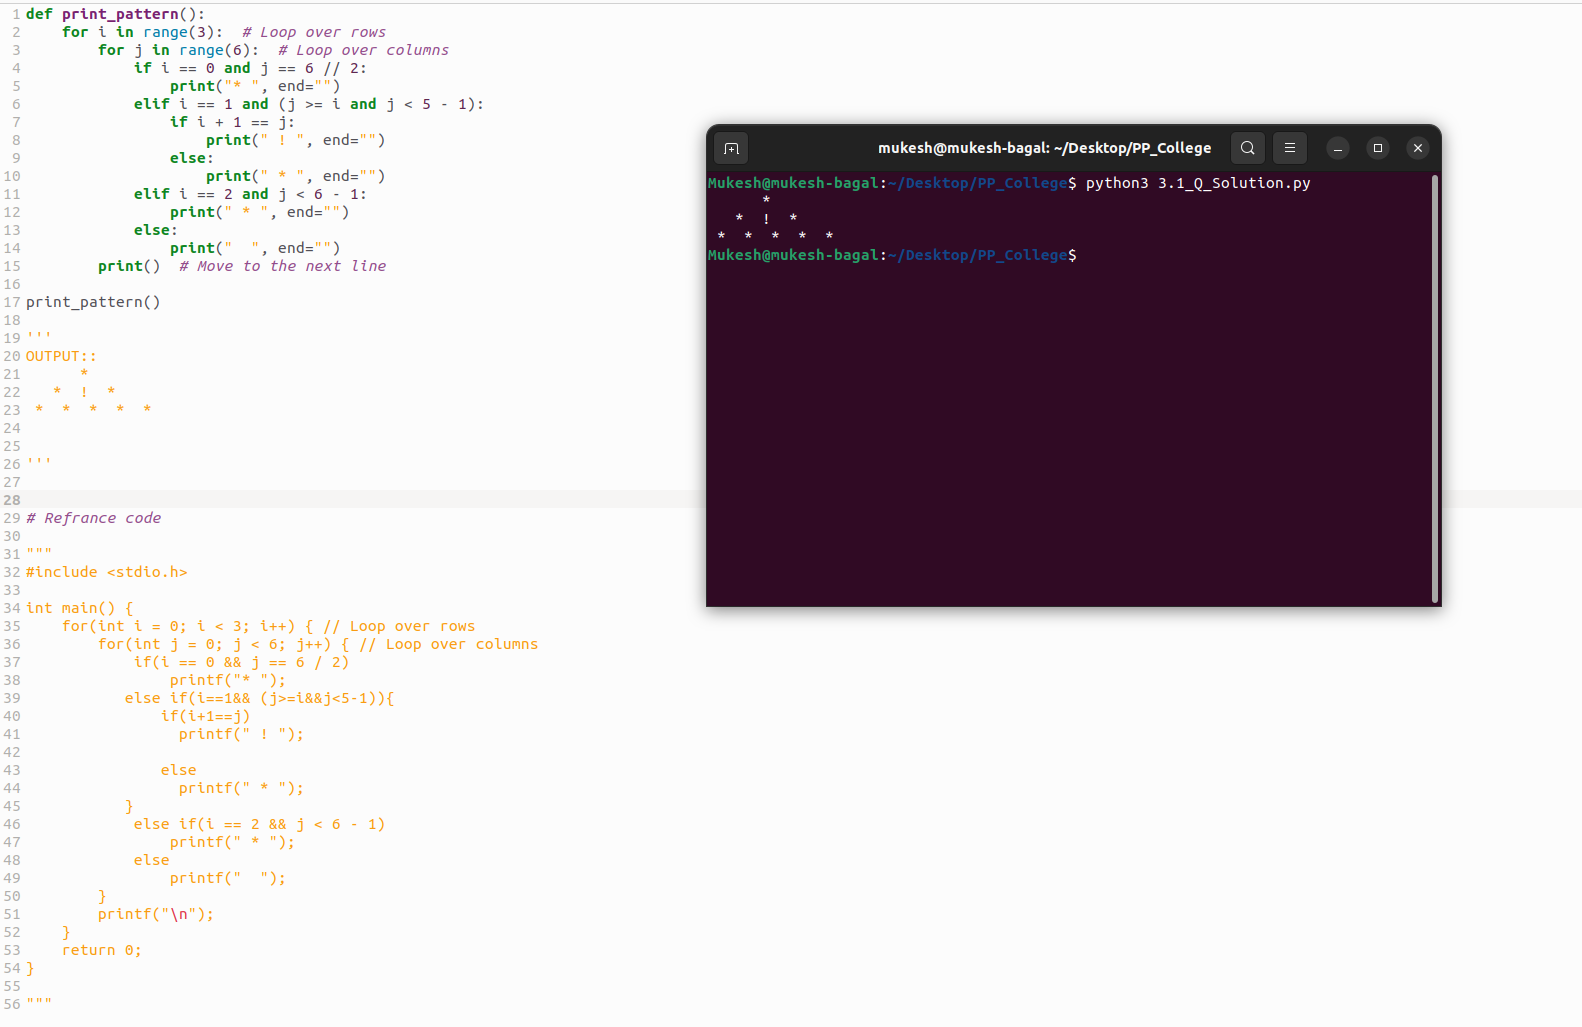
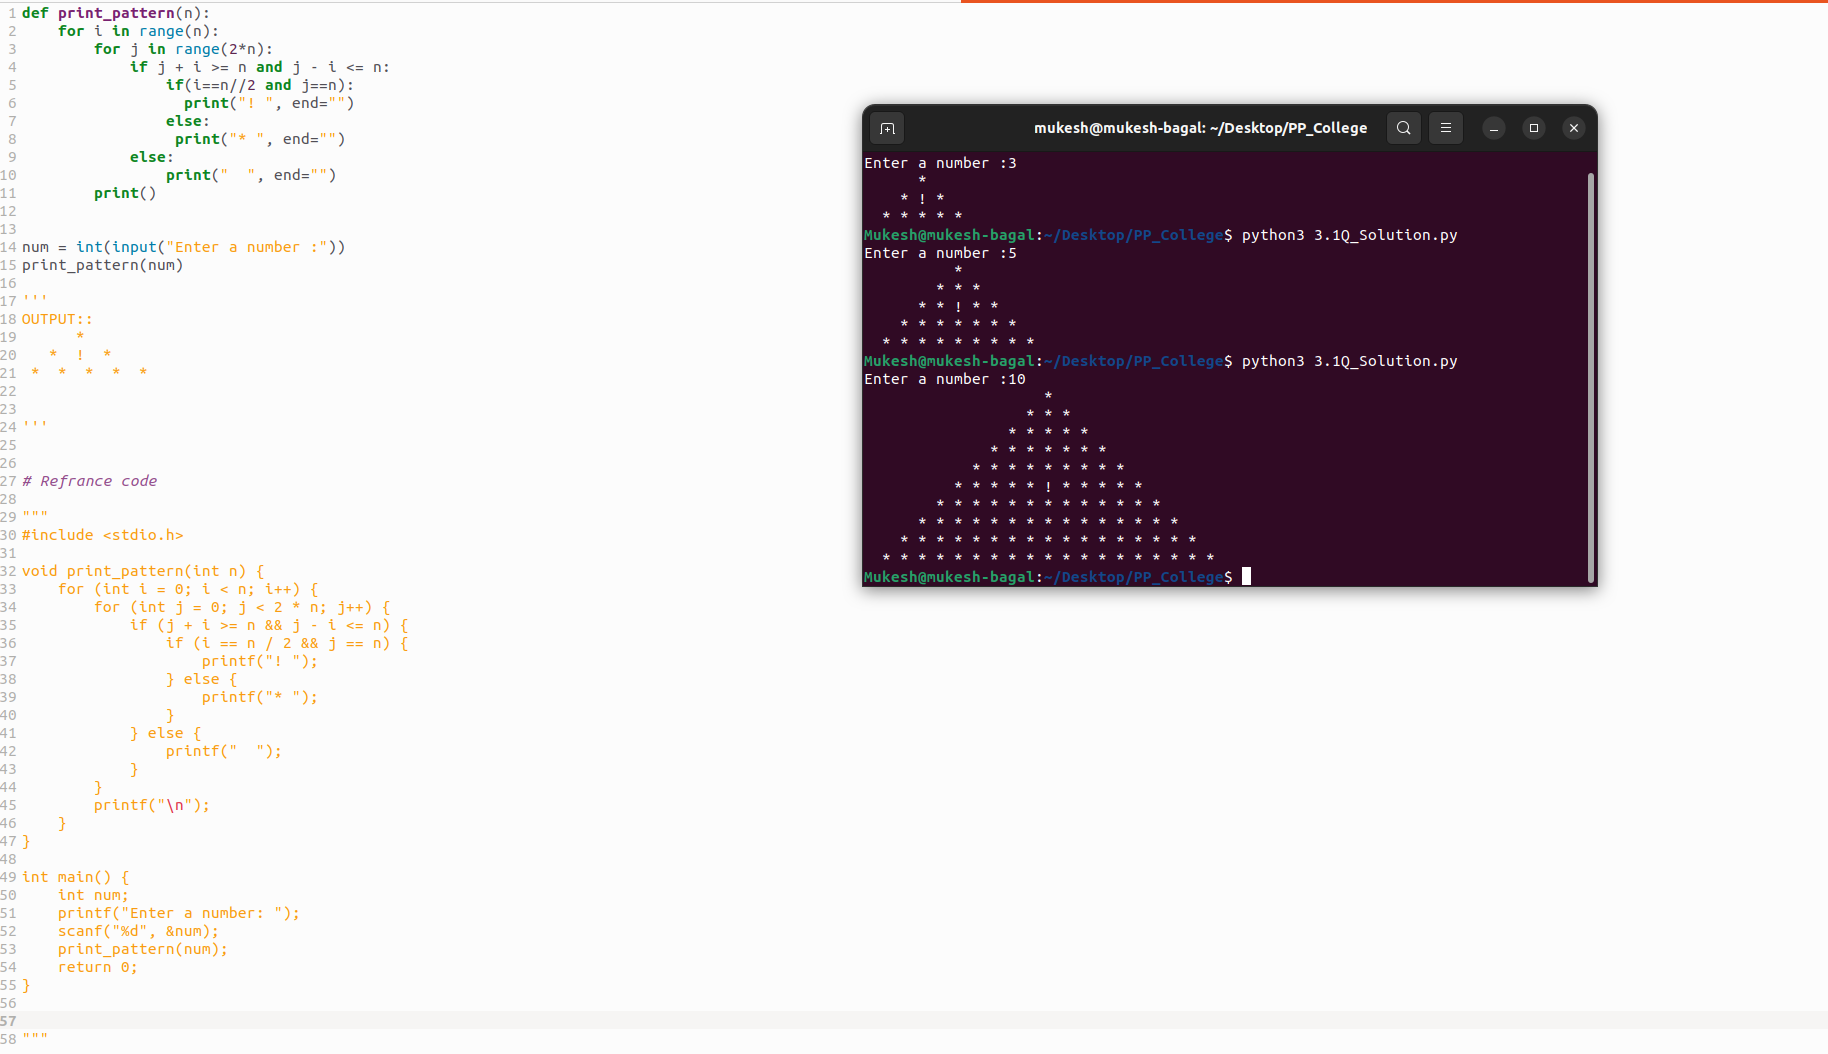
Practical No 3 Pattern Printing

diff --git a/3.2Q_Solution.py b/3.2Q_Solution.py
@@ -1,38 +1,44 @@
-def print_pattern():
-    for i in range(6):  # Loop over rows
-        for j in range(7):  # Loop over columns
-            if i == 0 and j == 7 // 2:
-                print("  * ", end="")
-            elif i == 1 and j % 2 == 0 and (j > 0 and j < 7 - 1):
-                print("  * ", end="")
-            elif i == 2 and j % 2 == 1:
-                if i + 1 == j:
-                    print(" 2 ", end="")
-                else:
-                    print("  * ", end="")
-            elif i == 3 and j % 2 == 1 and (j > 1 and j < 7 - 1):
-                print(" * ", end="")
-            elif (i > 3 and i < 6) and j < 7:
-                print("  * ", end="")
+def print_pattern(n):
+    if(n<3):
+        print("Plese Enter a Greater than ",n," Input !!")
+    for i in range(2*n-2):
+        for j in range(2*n): 
+            if (j + i == n and i < n) or \
+               (j - i == n) or \
+               (i - j == n - 2 and (i > n - 1 and i <= 2*n - 3)) or \
+               (i + j == 3*n - 2 and (i > n - 1 and i <= 2*n - 3)):
+                print("* ", end="") 
+            elif i == n - 1 and j == n:
+                print(n, " ", end="") 
             else:
-                print("   ", end="")
-        print()  # Move to the next line
+                print("   ", end="") 
+        print()
 
-print_pattern()
+    
+    for i in range(n):  
+        for j in range(2*n - 1):  
+            print(" * ", end="") 
+        print() 
+
+num = int(input("Enter a number :"))        
+print_pattern(num)  
 
 '''
 OUTPUT::
 
-           *          
-        *      *       
-     *      2      *    
-          *     *    
- *   *   *   *   *   *   *  
- *   *   *   *   *   *   *    
+Enter a number :3
+
+          *         
+     *        *     
+ *        3        * 
+     *        *             
+ *  *  *  *  *  *  *  *  * 
+ *  *  *  *  *  *  *  *  * 
+ *  *  *  *  *  *  *  *  * 
+
  
  
 '''
-
 
 
 # Refrance code
@@ -40,29 +46,47 @@ OUTPUT::
 """
 #include <stdio.h>
 
-int main() {
-    for(int i = 0; i < 6; i++) { // Loop over rows
-        for(int j = 0; j < 7; j++) { // Loop over columns
-            if(i==0 &&j==7/2)
-                printf("  * ");
-            else if(i==1 && j%2==0 && (j>0 && j<7-1)) 
-                printf("  * ");
-            else if(i==2 && j%2==1 ){
-                if(i+1==j)            
-                  printf("  2 ");
-                else
-                  printf("  * ");
-            }
-            else if(i==3 && j%2==1 && (j>1 && j<7-1))
-              printf(" * ");
-            else if((i>3 &&i<6) && j<7)
-                printf(" *  ");
-            else 
+void print_pattern(int n) {
+    if (n < 3) {
+        printf("Please Enter a Number Greater than %d\n", n);
+        return;
+    }
+
+    for (int i = 0; i < 2*n - 2; i++) {
+        for (int j = 0; j < 2*n; j++) {
+            if ((j + i == n && i < n) || 
+                (j - i == n) || 
+                (i - j == n - 2 && (i > n - 1 && i <= 2*n - 3)) || 
+                (i + j == 3*n - 2 && (i > n - 1 && i <= 2*n - 3))) {
+                printf("* ");
+            } else if (i == n - 1 && j == n) {
+                printf("%d ", n);
+            } else {
                 printf("   ");
+            }
         }
         printf("\n");
     }
+
+    for (int i = 0; i < n; i++) {
+        for (int j = 0; j < 2*n - 1; j++) {
+            printf(" * ");
+        }
+        printf("\n");
+    }
+}
+
+int main() {
+    int num;
+
+    printf("Enter a number: ");
+    scanf("%d", &num);
+
+    print_pattern(num);
+
     return 0;
 }
+
+
 
 """

diff --git a/3.1Q_Solution.py b/3.1Q_Solution.py
@@ -1,20 +1,18 @@
-def print_pattern():
-    for i in range(3):  # Loop over rows
-        for j in range(6):  # Loop over columns
-            if i == 0 and j == 6 // 2:
-                print("* ", end="")
-            elif i == 1 and (j >= i and j < 5 - 1):
-                if i + 1 == j:
-                    print(" ! ", end="")
+def print_pattern(n):
+    for i in range(n):
+        for j in range(2*n): 
+            if j + i >= n and j - i <= n:
+                if(i==n//2 and j==n):
+                  print("! ", end="") 
                 else:
-                    print(" * ", end="")
-            elif i == 2 and j < 6 - 1:
-                print(" * ", end="")
+                 print("* ", end="") 
             else:
-                print("  ", end="")
-        print()  # Move to the next line
+                print("  ", end="") 
+        print()
 
-print_pattern()
+
+num = int(input("Enter a number :"))        
+print_pattern(num)
 
 '''
 OUTPUT::
@@ -31,26 +29,30 @@ OUTPUT::
 """
 #include <stdio.h>
 
-int main() {
-    for(int i = 0; i < 3; i++) { // Loop over rows
-        for(int j = 0; j < 6; j++) { // Loop over columns
-            if(i == 0 && j == 6 / 2)
-                printf("* ");
-           else if(i==1&& (j>=i&&j<5-1)){
-               if(i+1==j)
-                 printf(" ! ");
-              
-               else 
-                 printf(" * ");
-           }
-            else if(i == 2 && j < 6 - 1)
-                printf(" * ");
-            else 
+void print_pattern(int n) {
+    for (int i = 0; i < n; i++) {
+        for (int j = 0; j < 2 * n; j++) {
+            if (j + i >= n && j - i <= n) {
+                if (i == n / 2 && j == n) {
+                    printf("! ");
+                } else {
+                    printf("* ");
+                }
+            } else {
                 printf("  ");
+            }
         }
         printf("\n");
     }
+}
+
+int main() {
+    int num;
+    printf("Enter a number: ");
+    scanf("%d", &num);
+    print_pattern(num);
     return 0;
 }
+
 
 """
